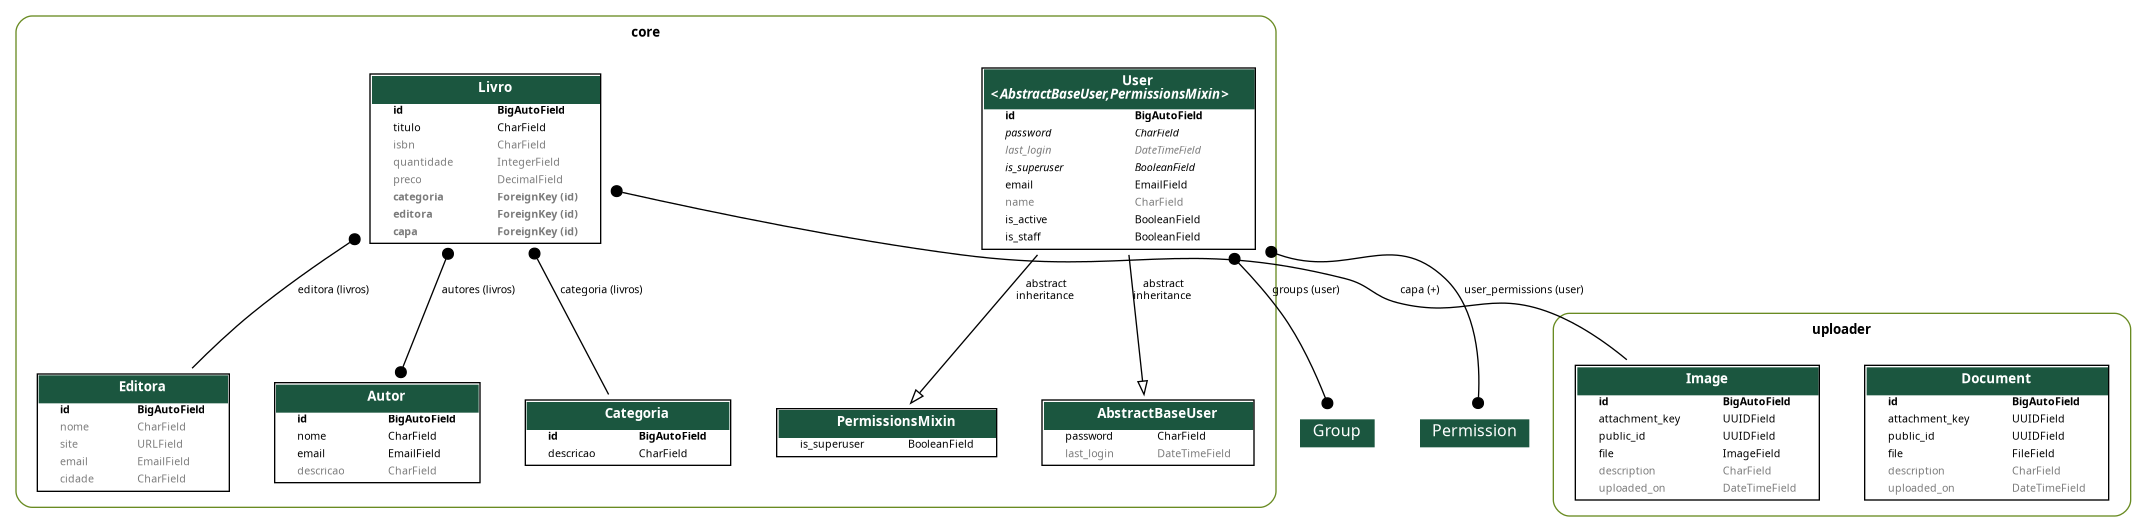
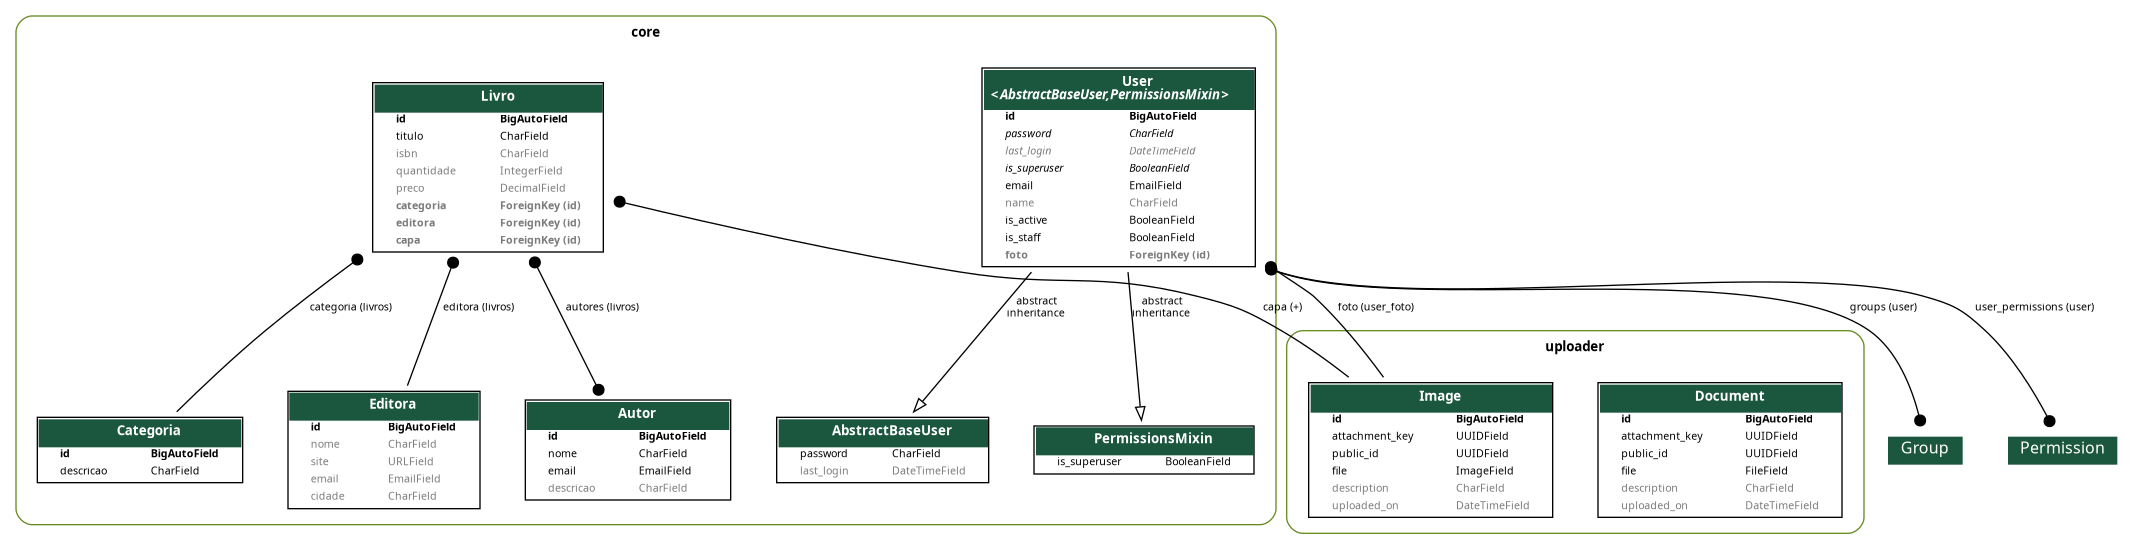
feat: adicionando foto de usuário

diff --git a/core/migrations/0014_user_foto.py b/core/migrations/0014_user_foto.py
@@ -1,0 +1,20 @@
+# Generated by Django 5.2.13 on 2026-05-12 17:21
+
+import django.db.models.deletion
+from django.db import migrations, models
+
+
+class Migration(migrations.Migration):
+
+    dependencies = [
+        ('core', '0013_alter_livro_preco'),
+        ('uploader', '0001_initial'),
+    ]
+
+    operations = [
+        migrations.AddField(
+            model_name='user',
+            name='foto',
+            field=models.ForeignKey(blank=True, default=None, null=True, on_delete=django.db.models.deletion.SET_NULL, related_name='user_foto', to='uploader.image'),
+        ),
+    ]

diff --git a/core/models/user.py b/core/models/user.py
@@ -9,6 +9,8 @@ from django.contrib.auth.models import (
 )
 from django.db import models
 from django.utils.translation import gettext_lazy as _
+from uploader.models import Image
+
 
 
 class UserManager(BaseUserManager):
@@ -36,7 +38,6 @@ class UserManager(BaseUserManager):
 
         return user
 
-
 class User(AbstractBaseUser, PermissionsMixin):
     """User model in the system."""
 
@@ -49,6 +50,14 @@ class User(AbstractBaseUser, PermissionsMixin):
         default=False,
         verbose_name=_('Usuário é da equipe'),
         help_text=_('Indica que este usuário pode acessar o Admin.'),
+    )
+    foto = models.ForeignKey(
+        Image,
+        related_name='user_foto',
+        on_delete=models.SET_NULL,
+        null=True,
+        blank=True,
+        default=None,
     )
 
     objects = UserManager()

diff --git a/core/admin.py b/core/admin.py
@@ -47,9 +47,10 @@ class UserAdmin(BaseUserAdmin):
 
     ordering = ['id']
     list_display = ['email', 'name']
+    search_fields = ['email', 'name', 'groups__name']
     fieldsets = (
         (None, {'fields': ('email', 'password')}),
-        (_('Personal Info'), {'fields': ('name',)}),
+        (_('Personal Info'), {'fields': ('name', 'foto')}),
         (
             _('Permissions'),
             {